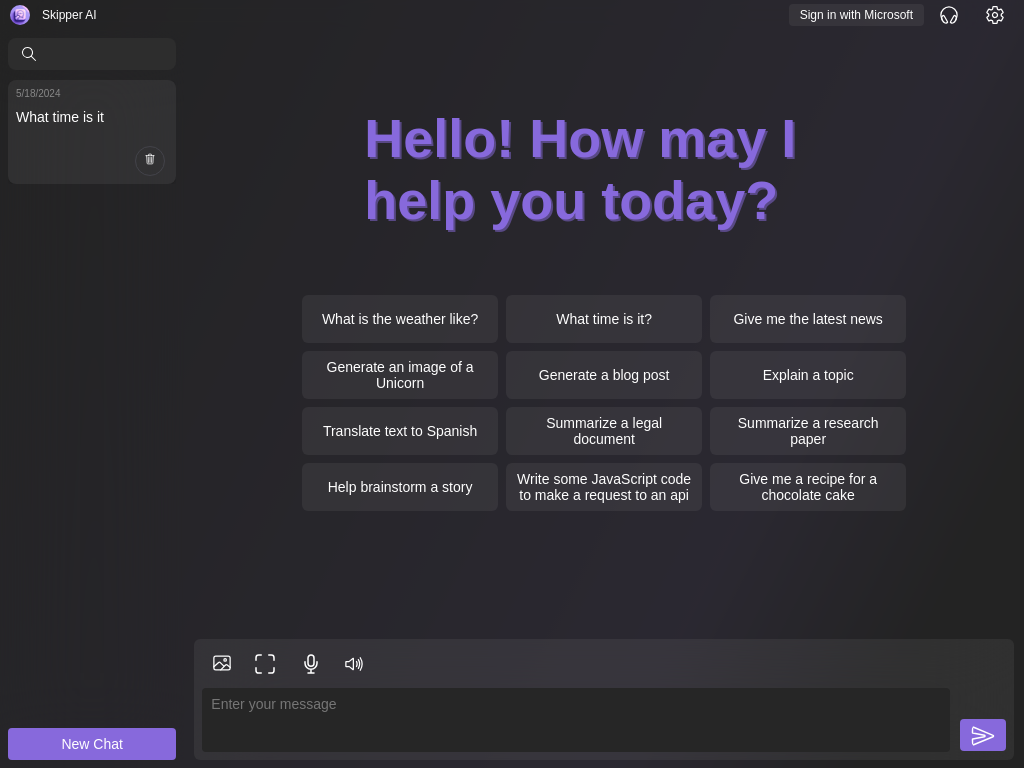
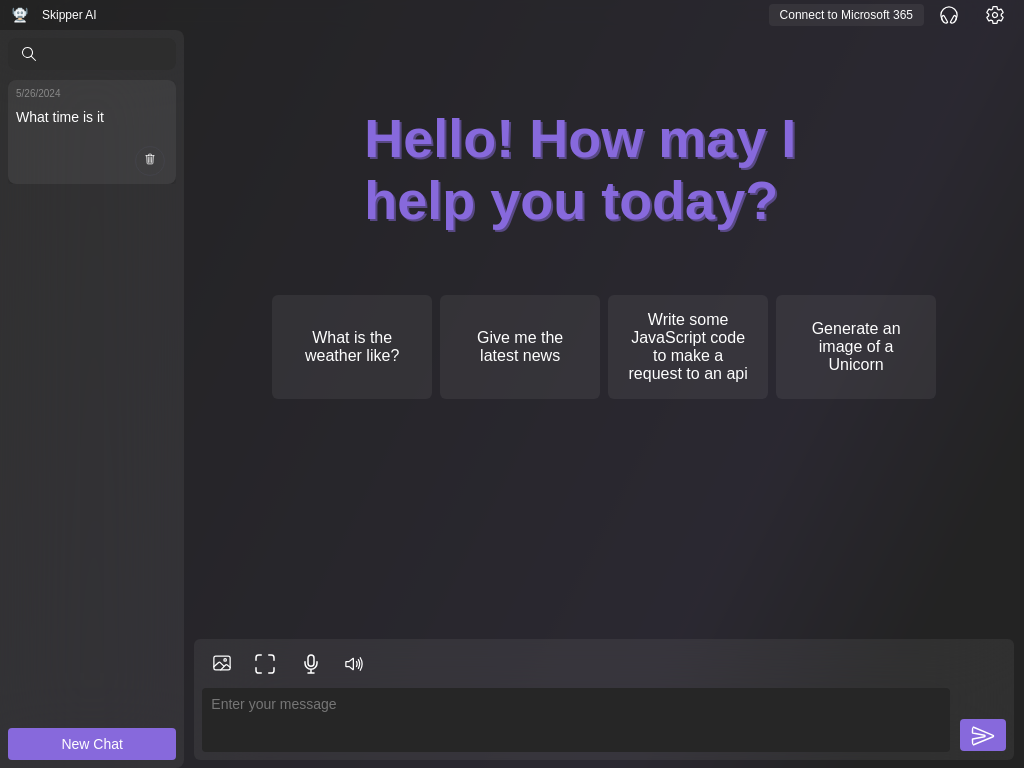
continue style updates + readme updates

diff --git a/src/pages/app-home.ts b/src/pages/app-home.ts
@@ -467,7 +467,6 @@ export class AppHome extends LitElement {
         #saved {
           /* color: white; */
           --theme-color: rgba(255, 255, 255, 0.06);
-          border-radius: 0px 8px 8px 0px;
 
           background-color: var(--theme-color);
           /* border-color: #2d2d2d1a; */
@@ -476,6 +475,10 @@ export class AppHome extends LitElement {
           padding: 8px;
           animation: slideStart 0.3s ease;
           contain: strict;
+
+          margin-left: 8px;
+          margin-bottom: 7px;
+          border-radius: 8px;
         }
 
         @keyframes slideStart {
@@ -827,6 +830,10 @@ export class AppHome extends LitElement {
           display: none;
         }
 
+        #suggested::webkit-scrollbar {
+          display: none;
+        }
+
         @media(min-width: 860px) {
           #convo-name {
             left: 20vw;
@@ -841,11 +848,12 @@ export class AppHome extends LitElement {
 
             display: flex;
             flex-direction: row;
-            width: max-content;
+            width: 68vw;
           }
 
           #suggested li {
             animation: quickup 0.3s ease;
+            min-width: 127px;
           }
 
           #now {
@@ -2228,14 +2236,14 @@ export class AppHome extends LitElement {
               ${this.modelShipper === "openai" ? html`<li @click="${() => this.preDefinedChat("What is the weather like?")}">What is the weather like?</li>` : null}
               ${this.modelShipper === "openai" ? html`<li @click="${() => this.preDefinedChat("Give me the latest news")}">Give me the latest news</li>` : null}
               ${this.modelShipper === "openai" ? html`<li @click="${() => this.preDefinedChat("Write some JavaScript code to make a request to an api")}">Write some JavaScript code to make a request to an api</li>` : null}
-              <!-- ${this.authToken && this.authToken.length > 0 && this.modelShipper === "openai" ? html`
+              ${this.authToken && this.authToken.length > 0 && this.modelShipper === "openai" ? html`
                   <li @click="${() => this.preDefinedChat("What is my latest email?")}">What is my latest email?</li>
                   <li @click="${() => this.preDefinedChat("Send an email")}">Send an email</li>
                   <li @click="${() => this.preDefinedChat("Search my email")}">Search my email</li>
                   <li @click="${() => this.preDefinedChat("Get my todos")}">Get my todos</li>
                   <li @click="${() => this.preDefinedChat("Set a todo")}">Set a todo</li>
                 ` : null
-        } -->
+        }
               ${this.modelShipper === "openai" ? html`<li @click="${() => this.preDefinedChat("Generate an image of a Unicorn")}">Generate an image of a Unicorn</li>` : null}
               <!-- ${this.quickActions.map((action: any) => {
           return html`<li @click="${() => this.preDefinedChat(action)}">${action}</li>`

diff --git a/src/components/app-actions.ts b/src/components/app-actions.ts
@@ -1,0 +1,87 @@
+import { LitElement, html, css } from 'lit';
+import { customElement } from 'lit/decorators.js'
+
+@customElement('app-actions')
+export class AppActions extends LitElement {
+    static styles = [
+        css`
+            :host {
+                display: block;
+            }
+
+            #main-block {
+                display: flex;
+                flex-direction: column;
+            }
+
+            fluent-button {
+                align-self: flex-end;
+            }
+
+            fluent-button, fluent-text-field, fluent-listbox, fluent-card, fluent-tooltip {
+                --accent-fill-rest: #8769dc;
+                --accent-stroke-control-rest: #8769dc;
+                --accent-fill-active: #8769dc;
+                --accent-stroke-control-active: #8769dc;
+                --accent-fill-hover: #8769dc;
+                --accent-stroke-control-hover: #8769dc;
+              }
+
+            h3 {
+                margin-top: 0;
+                margin-bottom: 0;
+                font-size: 16px;
+            }
+
+            p {
+                font-size: 14px;
+            }
+
+            #with-login {
+                display: flex;
+                flex-direction: column;
+                gap: 8px;
+            }
+
+            ul {
+                display: flex;
+                flex-direction: column;
+                gap: 8px;
+                padding-left: 22px;
+                font-weight: bold;
+                font-size: 14px;
+            }
+        `
+    ];
+
+    render() {
+        return html`
+          <div id="main-block">
+            <h3>Actions</h3>
+
+            <p>
+                Skipper supports "Actions", which are specific actions Skipper can take that build upon the standard GPT-4o capabilities.
+                Like with other chat assistant apps, you can ask also Skipper to do more general tasks, such as generating emails, researching topics, and just general chatting etc.
+                Here are some actions you can take:
+            </p>
+
+            <ul>
+                <li>Get the latest news</li>
+                <li>Get the latest news from a specific source</li>
+                <li>Get the current weather or the weather forecast for the week</li>
+                <li>Generate images, art and more</li>
+            </ul>
+
+            <p id="with-login">
+            Login with Microsoft to enable even more actions:
+             </p>
+
+             <ul>
+                <li>Manage your email</li>
+                <li>Search your email</li>
+                <li>Manage your tasks</li>
+             </ul>
+          </div>
+        `;
+    }
+}

diff --git a/src/components/app-settings.ts b/src/components/app-settings.ts
@@ -3,6 +3,7 @@ import { LitElement, css, html } from "lit";
 import { customElement, state } from "lit/decorators.js";
 
 import "./key-manager";
+import "./app-actions";
 
 import {
     provideFluentDesignSystem,
@@ -280,6 +281,10 @@ export class AppSettings extends LitElement {
                     Low quality will sound more robotic but will be faster.
                 </p>
             </div>
+
+            <div class="setting">
+                <app-actions></app-actions>
+    </div>
 
             <div class="setting">
                 <label for="export">Export Data</label>

diff --git a/README.md b/README.md
@@ -1,8 +1,8 @@
-# Skipper (beta)
+# Skipper
 
-![Header Graphic](/public/assets/skipper-header-graphic.png)
+![Header Graphic](/public/assets/hero-graphic.png)
 
-Skipper can work with you how you want. Want to interact with your voice? You can. Need Skipper to see something? Give it an image! Simply want text chat? That works too. Want to chat with OpenAI's GPT-4? Or Google's Gemini Pro? Or, want to chat with a model that runs locally on your device? You can do that too. Skipper is designed to be flexible and work with you.
+Skipper can work with you how you want. Want to interact with your voice? You can. Need Skipper to see something? Give it an image or share your screen! Simply want text chat? That works too. Skipper is designed to be flexible and work with you.
 
 [Launch the App (on any device)](https://www.skipperai.app/)
 
@@ -10,7 +10,6 @@ Skipper can work with you how you want. Want to interact with your voice? You ca
 
 - [Get Started](#get-started)
 - [Currently Supported Features](#currently-supported-features)
-- [Currently Supported Models](#currently-supported-models)
 - [Supported Devices](#supported-devices)
 - [Screenshots](#screenshots)
 
@@ -20,40 +19,26 @@ Getting started with Skipper is easy. The hardest part is grabbing an API key fo
 
 Note that to start using Skipper, you must enter your API key for atleast one of our cloud based models (know that if you dont add a Google API key for example, you will not be able to use the Google Gemini model). The app will givey you two inputs to enter your keys upon the first launch of the app. Skipper will use these API keys to chat with these individual models. Note that this will cost money on, for example, your OpenAI account, although the cost is minimal. This also gives you the upside of having full control of your cloud model usage. Please note that your API key does not get stored in any way in the cloud through Skipper. Your keys are only stored locally on your device.
 
-To grab an API key:
-
-- For OpenAI GPT-4: [Documentation](https://www.codecademy.com/article/creating-an-openai-api-key?periods=year&plan_id=proGoldAnnualV2&utm_source=pepperjam&utm_medium=affiliate&utm_term=159404&clickId=4684400308&pj_creativeid=8-12462&pj_publisherid=159404)
-- For Google Gemini: [Documentation](https://ai.google.dev/tutorials/setup)
+To grab an API key, [start here](https://www.codecademy.com/article/creating-an-openai-api-key?periods=year&plan_id=proGoldAnnualV2&utm_source=pepperjam&utm_medium=affiliate&utm_term=159404&clickId=4684400308&pj_creativeid=8-12462&pj_publisherid=159404)
 
 ## Currently Supported Features
 
 - Dark and light mode support
-- Chat with local or cloud based models
-- Add more context to chat by adding images (currently nly supported by GPT-4 and Gemini Pro), including dragging and dropping images onto the chat
+- Chat with a model running on your device in local mode
+- Add more context to chat by adding images, including dragging and dropping images onto the chat
+- Share your screen with Skipper to get help with anything you can see on your screen
 - Have responses read back to you with lifelike voices
-- Chat with models using your voice with low-latency speech-to-text
-- Generate images with Dalle-3
-
-## Currently Supported Models
-
-Cloud-based:
-
-- OpenAI GPT-4
-- Google Gemini Pro
-
-Local:
-
-- RedPajama - 3b
-- Llama 2 - 7b
-- Gemma - 2b (only works on mobile at the moment)
+- Chat using your voice with low-latency speech-to-text
+- Generate images
 
 ## Supported Devices
 
-Skipper is completely cross-platform, although it is currently broken in Safari.
+Skipper is completely cross-platform, although Firefox is not supported.
 
 ## Screenshots
 
-![Screenshot one on desktop](./public/assets/screenshots/screen-one-desktop.png)
-![Screenshot two on desktop](/public/assets/screenshots/screen-two-desktop.png)
-![Screenshot one on mobile](/public/assets/screenshots/mobile-screen-one.png)
-![Screenshot two on mobile](/public/assets/screenshots/mobile-screen-two.png)
+![Screenshot one on desktop](./public/assets/screenshots/home-light-desktop.png)
+![Screenshot two on desktop](/public/assets/screenshots/home-dark-desktop.png)
+![Screenshot three on desktop](/public/assets/screenshots/chat-dark-desktop.png)
+![Screenshot one on mobile](/public/assets/screenshots/home-dark-mobile.png)
+![Screenshot two on mobile](/public/assets/screenshots/home-light-mobile.png)
